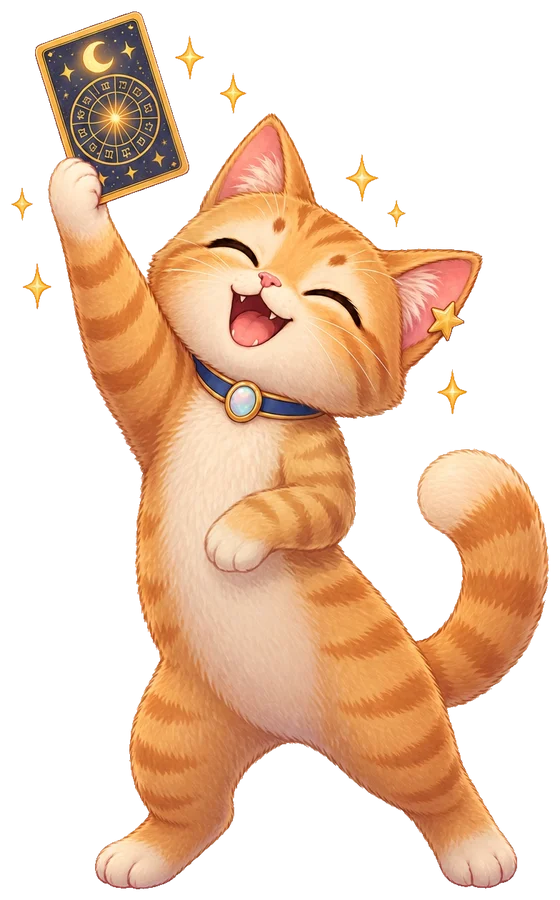
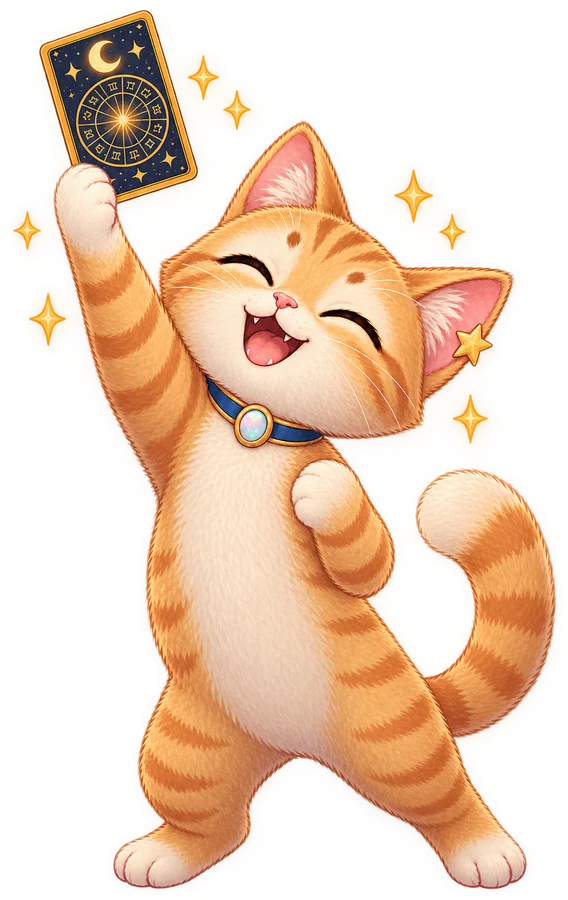
fix: update radiant artwork to enhance visual quality

diff --git a/TASKS.md b/TASKS.md
@@ -1,44 +1,18 @@
-# Tasks — M5: Mira and polish ✅
+# Tasks
 
-Goal (see [concept.md](concept.md) §2, §3): Mira from the new character art (`mira-character.png`, transparent cut-out) instead of the placeholder from the key visual; five visible moods; a loading animation; celestial polish.
+**Status (2026-10-07):** all milestones M1–M5 from [concept.md](concept.md) §13 are done, plus the changes listed under "After M5". There is no active milestone.
 
-**Done when:**
+## Open
 
-- Mira appears everywhere from the new art, with no English text in the image.
-- Each of the five poses (sleepy, cautious, calm, playful, radiant) looks clearly different, and real pose images can be dropped in later without code changes.
-- "Mira is reading the stars" has its own animation; all motion respects "reduce motion".
-- Screenshots of all poses and of Today in both browsers look right.
-
----
-
-## Art
-
-- [x] Cut Mira out of `mira-character.png`; remove the English text on her card ("HOROSCOPE / TODAY'S GUIDANCE")
-- [x] WebP with transparency for the app; new app icons (head on the night sky)
-- [x] Image prompts for real pose illustrations (same character, four more poses)
-
-## Poses
-
-- [x] Mira component: one image plus pose-specific light, motion and decorations (z z z, cloud, twinkles, orbiting star, sparkles)
-- [x] Optional dedicated pose images (`web/src/assets/poses/<pose>.webp`) are picked up automatically
-- [x] Pose gallery for review (development builds only)
-
-## Polish
-
-- [x] Loading animation: Mira reading her glowing card, stars circling
-- [x] Moon phase icon next to the Moon line
-- [x] Staggered entry of the reading's sections
-- [x] An occasional shooting star in the sky
-- [x] Everything off with "reduce motion"
-
-## Checks
-
-- [x] Type check, tests, build
-- [x] Screenshots: pose gallery, loading, Today (WebKit + Chromium)
+- App icons from the new art (e.g. Mira's head from `artwork/standing.png`) → if wanted.
+- `astrocat review --user <username>` (review from the database) → when needed.
+- Open questions from real use (calibration with the real charts, recurring images in readings, "quiet days"): see [concept.md](concept.md) §15.
 
 ---
 
-## New Mira art (2026-10-06) ✅
+## After M5
+
+### New Mira art (2026-10-06/07)
 
 All Mira images in the app now come from one set of illustrations in `artwork/`, in one style: crisp outlines, a dark card with golden lines, no glow halo.
 
@@ -48,11 +22,11 @@ All Mira images in the app now come from one set of illustrations in `artwork/`,
 | cautious | `cautious.png` | 1024 × 1536 | `web/src/assets/poses/cautious.webp` | 900 px high, 116 KB |
 | calm | `calm.png` | 1024 × 1536 | `web/src/assets/poses/calm.webp` | 900 px high, 167 KB |
 | playful | `playful.png` | 1024 × 1536 | `web/src/assets/poses/playful.webp` | 900 px high, 145 KB |
-| radiant | `radiant.png` (second version) | 848 × 1264 | `web/src/assets/poses/radiant.webp` | 900 px high, 84 KB |
+| radiant | `radiant.png` (third version, 2026-10-07) | 1024 × 1536 | `web/src/assets/poses/radiant.webp` | 900 px high, 159 KB |
 | standing (login, onboarding, loading) | `standing.png` | 1024 × 1536 | `web/src/assets/mira.webp` | 900 px high, 112 KB |
 
 - **Processing:** crop to the visible figure (alpha > 8) with a 16 px margin, scale, WebP with alpha (`cwebp -q 85 -alpha_q 100`). All images are sharp on 3× phone screens.
-- **radiant.png has no transparency** (white background). It is cut out during the export: near-white pixels connected to the image border (whiteness < 45) become transparent, the edge is pulled in by one pixel and softened, and edge pixels are un-blended from white, so there is no light fringe on the dark sky. Checked up close at fur, belly, card and sparkles. The source file stays unchanged; a transparent export would make this step unnecessary.
+- **radiant went through three versions.** The second one (848 × 1264) had a white background, which was cut out during the export. The third (2026-10-07) is transparent again like the others, so that step is no longer needed; checked up close at the fur edges and sparkles (clean, no light fringe).
 - **Effects in the app adjusted to the new art:**
   - calm brings its own sparkles, so the app's generated twinkles are off for it; it is now a meditating Mira without the card.
   - sleepy: the "z z z" sits above her head next to the ear star.
@@ -61,7 +35,7 @@ All Mira images in the app now come from one set of illustrations in `artwork/`,
 - **Other files:** `artwork/astrocat.png` is the key visual (README, concept); `artwork/mira-character.png` is the first character art. `mira-poses.png` (the first pose set) is no longer in the repo.
 - **Not updated:** the app icons still show Mira's head from `mira-character.png` (see Deferred).
 
-### Prompts used for the sleepy pose and the standing Mira
+#### Prompts used for the sleepy pose and the standing Mira
 
 Kept for future images in the same style. Reference image: one of the new poses (e.g. `artwork/playful.png`). Common part:
 
@@ -70,7 +44,7 @@ Kept for future images in the same style. Reference image: one of the new poses 
 - **sleepy:** "Mira is curled up asleep on a small, soft white cloud, eyes closed, her tail wrapped around her, the card tucked under one paw."
 - **standing:** "Mira stands on her hind legs and proudly holds the card up next to her face with one paw, the card face towards the viewer, a friendly closed-mouth smile."
 
-## Day switch and Ollama fixes (2026-10-03)
+### Day switch and Ollama fixes (2026-10-03)
 
 - **Day switch:** "Today · Tomorrow · Day after tomorrow" (EN/DE/ES) at the top of the Today screen. `GET /api/reading?offset=0|1|2`; `/api/today` stays. Each day is loaded once and kept in memory; late answers for a day the user already left are ignored. The scheduler prepares the next two days (`GENERATE_DAYS_AHEAD=2`), today first for everyone. Checked in WebKit: tomorrow 2.2 s (generated on demand), the day after 0.1 s (prepared), back to today from memory.
 - **Bug found while testing:** `OLLAMA_BASE_URL=host.docker.internal` (no scheme, no port) in `.env` made every generation fail, and all readings fell back to templates, which then counted as final. Fixes:
@@ -78,14 +52,16 @@ Kept for future images in the same style. Reference image: one of the new poses 
   - Template readings caused by an Ollama outage are regenerated by the next scheduler run; template readings after failed checks are not retried.
 - 158 tests.
 
-## Self-registration with invite code (2026-10-03)
+### Self-registration with invite code (2026-10-03)
 
 - Decided: registration in the app, protected by an invite code (`REGISTRATION_CODE` in `.env`; empty = off). Alternatives considered: open registration (any guest on the Wi-Fi could sign up and use the Mac's Ollama), open with an on/off switch.
 - API: `GET /api/auth/registration`, `POST /api/auth/register` (constant-time code check, wrong codes rate-limited like logins, username rule shared with the CLI, logs in right away). 5 new tests (147 in total).
 - App: "Create account" link on the login screen only when enabled; registration screen in EN/ES/DE; afterwards onboarding with the name prefilled. Checked in WebKit/iPhone: link, wrong code message, successful registration → onboarding.
 - Local `.env` got a random code (`mira-…`); `.env.example` leaves it empty.
 
-## M5 log
+## M5 log (done)
+
+Goal (concept §2, §3): Mira from the character art instead of the placeholder from the key visual; five visible moods; a loading animation; celestial polish. All done: art and app icons, the Mira component with pose-specific light, motion and decorations, dedicated pose images picked up automatically, pose gallery (`#/poses`, development builds), loading animation, Moon phase icon, staggered sections, shooting star, everything off with "reduce motion"; checked with type check, tests, build and screenshots in WebKit and Chromium. The art was later replaced by a complete new set (see "After M5").
 
 - **Art:** `mira-character.png` (1376 × 768, transparent) contains one pose; the cat itself is about 504 × 490 px. Cut to the cat; the English card text ("HOROSCOPE / TODAY'S GUIDANCE") removed with OpenCV inpainting (only the dark text pixels, not the thumb), so the card is language-neutral. Exported as WebP with alpha (39 KB). New app icons: Mira's head on the app's night-sky gradient, with the raised paw faded out at the edge.
 - **Five moods from one illustration** (`web/src/mira.tsx`, styles in `styles.css`):
@@ -106,7 +82,7 @@ Kept for future images in the same style. Reference image: one of the new poses 
   - Checked in the pose gallery and on Today (WebKit/iPhone, a real "playful" day).
   - Still small source art: each cat is 430–530 px tall, so slightly soft on 3× screens.
 
-### Prompts for real pose illustrations
+### Prompts for the first pose set (historical; the current prompts are under "After M5")
 
 Use the current `mira-character.png` as the reference image. Common part for every prompt:
 
@@ -121,11 +97,6 @@ Pose-specific endings:
 - **radiant:** "Mira stands tall and holds the glowing card high above her head, eyes closed with joy, surrounded by a few sparkles."
 
 Save each as `web/src/assets/poses/<pose>.webp`, e.g. `cwebp -q 88 -alpha_q 100 -resize 0 1000 sleepy.png -o web/src/assets/poses/sleepy.webp`, then rebuild the web container.
-
-## Deferred
-
-- App icons from the new art (e.g. Mira's head from `artwork/standing.png`) → if wanted.
-- `astrocat review --user <username>` (review from the database) → when needed.
 
 ## M4 log (done)
 

diff --git a/concept.md b/concept.md
@@ -114,7 +114,7 @@
 Login and onboarding show the standing Mira from `artwork/standing.png`, holding up her card. While a reading is generated, she "reads the stars": a golden halo pulses behind her card and two stars circle slowly.
 
 **Assets:**
-- **Sources** in `artwork/`: `standing.png` and the five poses `sleepy.png`, `cautious.png`, `calm.png`, `playful.png`, `radiant.png` (single illustrations, 2026-10-06), all in one style: crisp outlines, a dark card with golden lines, no glow halo. Sources should have a transparent background (`radiant.png` has a white one, removed during the export, see [TASKS.md](TASKS.md)). `mira-character.png` is the first character art; the app icons still come from it. No text in images (§2).
+- **Sources** in `artwork/`: `standing.png` and the five poses `sleepy.png`, `cautious.png`, `calm.png`, `playful.png`, `radiant.png` (single illustrations, 2026-10-06), all in one style: crisp outlines, a dark card with golden lines, no glow halo. Sources need a transparent background. `mira-character.png` is the first character art; the app icons still come from it. No text in images (§2).
 - **App files:** `web/src/assets/mira.webp` (standing Mira, from `standing.png`) and `web/src/assets/poses/<pose>.webp`. A pose image replaces the standing Mira for that pose automatically; without one, the app falls back to the standing Mira with generated effects (dimming, clouds, an orbiting star, sparkles).
 - **Resolution:** the poses are exported at 900 px height (sleepy, which is wide: 1000 px width), sharp on 3× phone screens, 110–205 KB each (the standing Mira likewise).
 - **Motion:** CSS only (no Rive or Lottie needed); all animation stops with the system setting "reduce motion".
